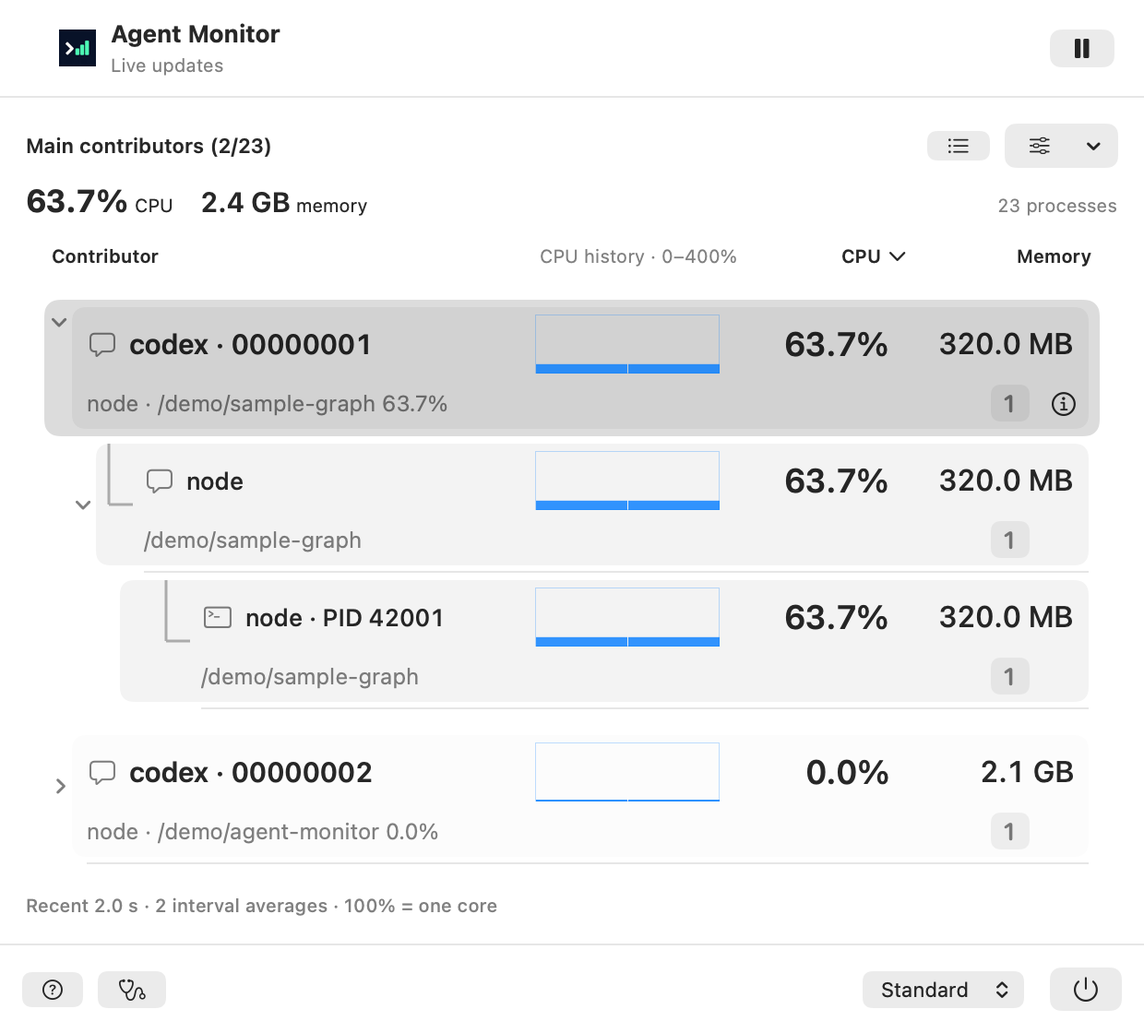
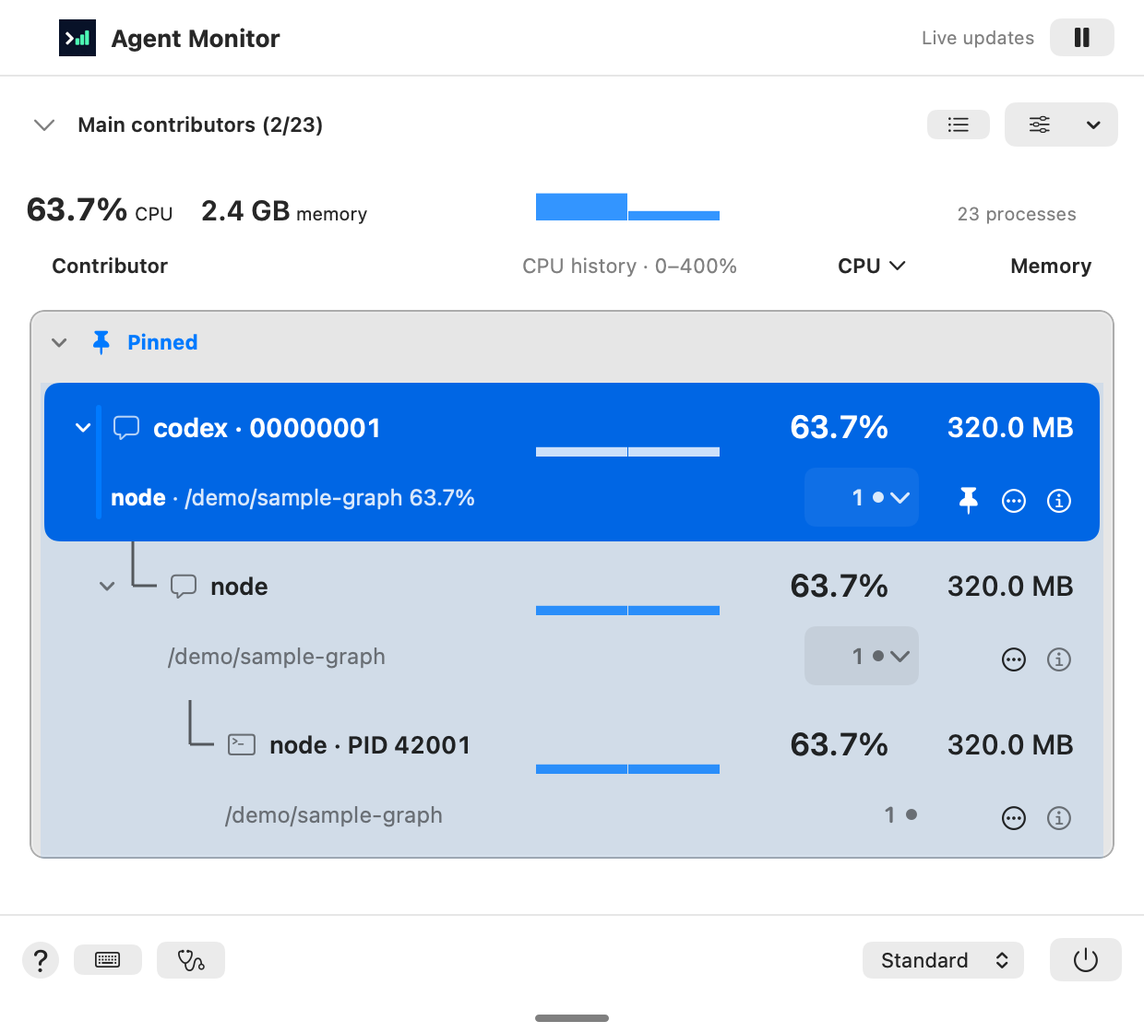
fix(ui): clarify executable headings and terminal help
Keep retained lifetime counts out of executable names while preserving population details and accounting. Size help columns to their content and expose the existing historical-row filter through Shift+H in the TUI.

diff --git a/Sources/AgentMonitorPresentation/ReportReferenceLayout.swift b/Sources/AgentMonitorPresentation/ReportReferenceLayout.swift
@@ -18,7 +18,7 @@ public enum ReportReferenceLayout {
         case .glossary:
             return ReportGlossary.entries.flatMap {
                 [ReportLine($0.title, style: .title), ReportLine($0.definition), ReportLine("")]
-            } + chartHelp(style: state.chartStyle)
+            } + chartHelp(style: state.chartStyle, page: .glossary)
         case .keyboard:
             return keyboardHelp(state: state)
         case .diagnostics:
@@ -136,6 +136,7 @@ public enum ReportReferenceLayout {
             key("1 / 2", "lower/raise CPU filter"), key("3 / 4", "lower/raise memory filter"),
             key("< / >", "slower/faster sampling"),
         ]
+        if state.showsOverview { lines.append(key("H", "hide/show no longer observed")) }
         if state.snapshot != nil { lines.append(key("p", state.frozen ? "resume updates" : "pause updates")) }
         if state.showsOverview {
             if let id = state.overview.selection, state.overview.pinTarget(for: id) != nil {
@@ -167,28 +168,42 @@ public enum ReportReferenceLayout {
             key("q / Ctrl-C", "quit"),
         ]
         if !state.diagnosis.isRunning { lines.append(key("I", "start CPU investigation")) }
-        return lines + chartHelp(style: state.chartStyle, keyStyle: .shortcut)
+        return lines + chartHelp(style: state.chartStyle, page: .keyboard)
     }
 
-    private static func chartHelp(style: ContributorChartStyle, keyStyle: ReportLine.Style = .normal)
+    private static func chartHelp(style: ContributorChartStyle, page: ReportReferencePage)
         -> [ReportLine]
     {
-        [
+        let keyStyle: ReportLine.Style = page == .keyboard ? .shortcut : .normal
+        var lines = [
             ReportLine(""), ReportLine("Contributor CPU charts", style: .title),
-            ReportLine(runs: [
-                .init("█", style: .chartOverflow), .init(" above range; "), .init("·", style: .identity),
-                .init(" no measurement; "), .init("_", style: .identity), .init(" measured zero"),
-            ]),
-            ReportLine("Above-range bars use the warning color; monochrome uses ↑."),
             TerminalChrome.controls([("b", "change chart range")], keyStyle: keyStyle),
-            ReportLine("Oldest left, newest right. Dots are gaps, never zero CPU."),
-            ReportLine("Bars show retained interval averages; equal widths can cover unequal durations."),
+            ReportLine(runs: [
+                .init("█", style: .chartOverflow), .init(" above range (monochrome uses ↑)"),
+            ]),
+            ReportLine(runs: [.init("·", style: .identity), .init(" no measurement")]),
+            ReportLine(runs: [.init("_", style: .identity), .init(" measured zero")]),
+            ReportLine(runs: [.init("~", style: .identity), .init(" incomplete sampling")]),
+            ReportLine("Oldest → newest"),
             ReportLine(
                 style == .compact
-                    ? "Compact charts use 8 steps in one row; all CPU lanes share the same range."
-                    : "Heights use ⅛-cell steps: 24 steps across three rows."),
-            ReportLine("~ spans marks measurements crossing gaps in sampling."),
+                    ? "8 steps in one row"
+                    : "24 steps across three rows"),
         ]
+        if page == .keyboard {
+            lines.append(TerminalChrome.controls([("G", "chart details in glossary")], keyStyle: keyStyle))
+        } else {
+            lines += [
+                ReportLine("All CPU lanes share one fixed range."),
+                ReportLine(
+                    "Bars average measured CPU over retained intervals. Equal widths may cover unequal durations."
+                ),
+                ReportLine(
+                    "Dots mark missing measurements, never zero CPU. ~ marks incomplete sampling, including intervals crossing gaps."
+                ),
+            ]
+        }
+        return lines
     }
 
     private static func wrapped(state: LiveReportState, page: ReportReferencePage, width: Int) -> [ReportLine]
@@ -198,28 +213,33 @@ public enum ReportReferenceLayout {
             return source.flatMap { $0.wrapped(to: max(1, width)) }
         }
         let gap = 4
-        let columnWidth = (width - gap) / 2
-        let sections = source.split(whereSeparator: { $0.text.isEmpty }).map { section in
-            section.flatMap { $0.wrapped(to: columnWidth) }
+        let available = width - gap
+        let sections = source.split(whereSeparator: { $0.text.isEmpty })
+        func column(_ sections: ArraySlice<ArraySlice<ReportLine>>, width: Int) -> [ReportLine] {
+            Array(sections.map { $0.flatMap { $0.wrapped(to: width) } }.joined(separator: [ReportLine("")]))
         }
-        func column(_ sections: ArraySlice<[ReportLine]>) -> [ReportLine] {
-            Array(sections.joined(separator: [ReportLine("")]))
+        let candidates = (1..<sections.count).map { split in
+            let preferred = sections[..<split].flatMap { $0 }.map { TerminalCells.width($0.text) }.max() ?? 0
+            let leftWidth = min(available * 2 / 3, max(available / 3, preferred))
+            return (
+                left: column(sections[..<split], width: leftWidth),
+                right: column(sections[split...], width: available - leftWidth),
+                width: leftWidth
+            )
         }
         guard
-            let split = (1..<sections.count).min(by: { lhs, rhs in
-                max(column(sections[..<lhs]).count, column(sections[lhs...]).count)
-                    < max(column(sections[..<rhs]).count, column(sections[rhs...]).count)
+            let columns = candidates.min(by: {
+                max($0.left.count, $0.right.count) < max($1.left.count, $1.right.count)
             })
         else { return source.flatMap { $0.wrapped(to: width) } }
-        let left = column(sections[..<split])
-        let right = column(sections[split...])
-        return (0..<max(left.count, right.count)).map { row in
-            let first = row < left.count ? left[row] : ReportLine("")
-            guard row < right.count else { return first }
+        return (0..<max(columns.left.count, columns.right.count)).map { row in
+            let first = row < columns.left.count ? columns.left[row] : ReportLine("")
+            guard row < columns.right.count else { return first }
             return ReportLine(
                 runs: first.runs + [
-                    .init(String(repeating: " ", count: columnWidth - TerminalCells.width(first.text) + gap))
-                ] + right[row].runs)
+                    .init(
+                        String(repeating: " ", count: columns.width - TerminalCells.width(first.text) + gap))
+                ] + columns.right[row].runs)
         }
     }
 

diff --git a/Tests/AgentMonitorCLITests/ReportReferenceTests.swift b/Tests/AgentMonitorCLITests/ReportReferenceTests.swift
@@ -3,6 +3,41 @@ import AgentMonitorPresentation
 import Testing
 
 @Suite struct ReportReferenceTests {
+    @Test(arguments: [ContributorChartStyle.compact, .stacked])
+    func keyboardChartLegendFitsTheNarrowestHelpColumn(style: ContributorChartStyle) throws {
+        var state = LiveReportState()
+        state.chartStyle = style
+        let source = ReportReferenceLayout.content(state: state, page: .keyboard)
+        let start = try #require(source.lastIndex { $0.text == "Contributor CPU charts" })
+        let chart = source.suffix(from: start)
+        #expect(chart.allSatisfy { TerminalCells.width($0.text) <= 48 })
+        for symbol in ["█", "·", "_", "~"] {
+            #expect(chart.contains { $0.runs.first?.text == symbol })
+        }
+        #expect(chart.contains { $0.runs.contains { $0.style == .shortcut && $0.text == "G" } })
+    }
+
+    @Test func historicalFilterIsDiscoverableAndReversibleWithoutChangingTotals() throws {
+        var state = LiveReportState()
+        state.receive(try overviewFixture(includeProcesses: true))
+        state.view = .allContributors
+        let rows = state.overview.visibleRows
+        let totals = state.overview.totals
+        let activity = state.overview.activity
+        let help = ReportReferenceLayout.content(state: state, page: .keyboard)
+        #expect(help.contains { $0.text == "H hide/show no longer observed" })
+        state.overview.hideNoLongerObserved.toggle()
+        #expect(state.overview.hideNoLongerObserved)
+        #expect(state.overview.visibleRows.count < rows.count)
+        #expect(state.overview.visibleRows.allSatisfy { !$0.node.stats.isNoLongerObserved })
+        let lines = ContributorLayout.lines(state: state, width: 100, height: 30)
+        #expect(lines.contains { $0.text.contains("H show no longer observed") })
+        #expect(state.overview.totals == totals)
+        #expect(state.overview.activity == activity)
+        state.overview.hideNoLongerObserved.toggle()
+        #expect(state.overview.visibleRows == rows)
+    }
+
     @Test func liveProcessHeaderKeepsInspectionContextAndMovesCollectionDetailsToDiagnostics() throws {
         var state = LiveReportState()
         state.receive(try overviewFixture(includeProcesses: true))
@@ -69,6 +104,11 @@ import Testing
         let lines = ReportReferenceLayout.lines(state: state, width: width, height: 60)
         let first = lines[1]
         #expect(first.runs.filter { $0.style == .title }.count == 2)
+        let secondHeading = try #require(first.runs.last { $0.style == .title })
+        let headingIndex = try #require(first.runs.lastIndex { $0 == secondHeading })
+        let secondColumn = TerminalCells.width(first.runs[..<headingIndex].map(\.text).joined())
+        #expect(secondColumn < width / 2)
+
         let expectedKeys = source.flatMap(\.runs).filter { $0.style == .shortcut }.map(\.text).sorted()
         let renderedKeys = lines.flatMap(\.runs).filter { $0.style == .shortcut }.map(\.text).sorted()
         #expect(renderedKeys == expectedKeys)

diff --git a/Tests/AgentMonitorCLITests/SessionContributorRowsTests.swift b/Tests/AgentMonitorCLITests/SessionContributorRowsTests.swift
@@ -51,21 +51,23 @@ import Testing
         #expect(spread.nodes[session]?.title == "codex · 11111111 · 2 dirs")
     }
 
-    @Test func contributorsAggregateExecutableAndDirectoryWithWorkerCounts() throws {
+    @Test func contributorsKeepCountsSeparateFromExecutableHeadings() throws {
         let value = try overview([
             worker("java", pid: 1, cpu: 0.9), worker("java", pid: 2, cpu: 0.8),
             worker("java", pid: 3, cpu: 0.5, cwd: "/work/web"), worker("rustc", pid: 4, cpu: 0.3),
         ])
         let titles = value.nodes[session]?.children.compactMap { value.nodes[$0]?.title }
-        #expect(titles == ["java ×2 · /work/api", "java · /work/web", "rustc · /work/api"])
+        #expect(titles == ["java · /work/api", "java · /work/web", "rustc · /work/api"])
         let grouped = ContributorID.executable(parent: session, name: "java", cwd: "/work/api")
+        #expect(value.nodes[grouped]?.stats.processes.count == 2)
+        #expect(value.nodes[grouped]?.populationFields.first { $0.label == "Recent workers" }?.value == "2")
         #expect(value.nodes[grouped]?.children.compactMap { value.nodes[$0]?.process?.pid } == [1, 2])
     }
 
     @Test func singleDirectorySessionKeepsTheDirectoryOnTheSessionRowOnly() throws {
         let value = try overview([worker("java", pid: 1, cpu: 0.9), worker("java", pid: 2, cpu: 0.8)])
         let child = try #require(value.nodes[session]?.children.first)
-        #expect(value.nodes[child]?.title == "java ×2")
+        #expect(value.nodes[child]?.title == "java")
     }
 
     @Test func adapterRecognisedRuntimeUsesItsProviderNameAndNoWorkloadDirectory() throws {

diff --git a/Sources/AgentMonitorPresentation/AgentGuide.swift b/Sources/AgentMonitorPresentation/AgentGuide.swift
@@ -105,6 +105,7 @@ public enum AgentGuide {
             ↑/↓ select; ←/→ collapse/expand children; process leaves do not expand.
             Shift+←/→ collapse/expand session groups at the current level; g toggles grouping.
             c/m/o choose CPU/memory/stable order in the current view; r reverses it; n sorts PID only in process views.
+            H (Shift+H) hides/shows no longer observed contributor rows without changing totals or history.
             b cycles the fixed contributor CPU chart range; h cycles process-view history CPU/memory/heavy count; t switches 10 minutes/one hour.
             1/2 lower/raise CPU by 10 percentage points; 3/4 lower/raise footprint by 1 GB.
             </> increase/decrease the period, or adaptive visible maximum: 0.1, 0.25, 0.5, 1, 2, 5, 10, 30 or 60 seconds; invalid steps are skipped.

diff --git a/Sources/AgentMonitorPresentation/ContributorOverview.swift b/Sources/AgentMonitorPresentation/ContributorOverview.swift
@@ -848,11 +848,10 @@ public struct ContributorOverview: Equatable, Sendable {
                 let owner = sequence(first: parent, next: \.parent).first {
                     if case .session = $0 { true } else { false }
                 }
-                let workers = nodes[id]?.stats.processes.count ?? 0
                 // A single directory is already shown on the owning session row.
                 let directoryOnOwner = owner.map { (projects[$0]?.count ?? 0) <= 1 } ?? false
                 nodes[id]?.label = .workload(
-                    name: name + (workers > 1 ? " ×\(workers)" : ""),
+                    name: name,
                     directory: runtimeContributors.contains(id) || directoryOnOwner
                         ? nil
                         : (cwd.map { directoryLabels[$0] ?? WorkloadDirectory.compact($0) }

diff --git a/Sources/AgentMonitorPresentation/ContributorLayout.swift b/Sources/AgentMonitorPresentation/ContributorLayout.swift
@@ -74,6 +74,12 @@ public enum ContributorLayout {
         if !state.thresholds.isUnfiltered {
             header.insert(ReportLine(ThresholdContext.text(state.thresholds), style: .muted), at: 3)
         }
+        if overview.hideNoLongerObserved {
+            header.insert(
+                TerminalChrome.controls([
+                    ("H", "show no longer observed · \(overview.hiddenHistoricalRowCount) rows hidden")
+                ]), at: 3)
+        }
         if let notice = overview.pinNotice { header.insert(ReportLine(notice, style: .warning), at: 3) }
         let rows = overview.visibleRows
         var ancestorLast: [Bool] = []

diff --git a/Tests/AgentMonitorTUITests/TerminalTests.swift b/Tests/AgentMonitorTUITests/TerminalTests.swift
@@ -678,6 +678,12 @@ func terminalActionsRequireConfirmationAndPasteCannotSubmit(quitWhileUndersized:
     ) {
         $0.contains("Main contributors") && $0.contains("overview-project")
     }
+    for hidden in [true, false] {
+        try writeAllBytes(Array("H".utf8), to: terminal.master)
+        _ = try await waitForScreen(
+            on: terminal.master, screen: &screen, deadline: .now() + .seconds(4)
+        ) { $0.contains("H show no longer observed") == hidden }
+    }
     try writeAllBytes(Array("8".utf8), to: terminal.master)
     try writeAllBytes(Array("b".utf8), to: terminal.master)
     _ = try await waitForScreen(

diff --git a/Sources/AgentMonitorTUI/TerminalReport.swift b/Sources/AgentMonitorTUI/TerminalReport.swift
@@ -185,6 +185,11 @@ public enum TerminalReport {
                             state.mutate { $0.apply(shortcut) }
                         }
                         return .handled
+                    case .character("H"):
+                        state.mutate {
+                            if $0.showsOverview { $0.overview.hideNoLongerObserved.toggle() }
+                        }
+                        return .handled
                     case .character("I"):
                         if host.surfaceSize.width >= 40, host.surfaceSize.height >= 8 { diagnosis.start() }
                         return .handled

diff --git a/docs/usage.md b/docs/usage.md
@@ -79,6 +79,7 @@ Adaptive sampling defaults off. With `--adaptive-sampling`, acquisition starts a
 | `r` | Reverse the current view’s sort direction; no effect in Stable order |
 | `P` / `S` / `O` | Fold Pinned / Sessions / Other observed work in the contributor overview |
 | `b` | Cycle the fixed contributor CPU chart range; no effect in process views |
+| `H` (Shift+H) | Hide/show no longer observed rows in the contributor overview; measured totals and history stay unchanged |
 | `h` | Cycle history: CPU (default), memory, heavy-process count |
 | `t` | Switch history between the last 10 minutes (default) and one hour |
 | `1` / `2` | Lower/raise the CPU threshold by 10 percentage points |
@@ -95,7 +96,7 @@ Adaptive sampling defaults off. With `--adaptive-sampling`, acquisition starts a
 
 Pins stay first in pin order, independently of sorting. `★` marks a pinned row and `>` independently marks the selection, including without color. A selected pin shows `>★`; a missing pinned target keeps both indicators. A pinned group's expanded children use arrival order in Stable order and PID order in other sorts. If a target leaves the current heavy results, its placeholder remains with **Not in current results**; this does not prove it exited, and no old measurements or actions are offered. The same process lifetime or session can return automatically; PID reuse cannot replace a pin. `.` removes the selected pin even when its target is absent. `U` clears pins in both the overview and process view; the Mac app also offers **View options → Unpin all**. Each view admits at most 256 pins and 64 KiB of retained identity/label text. Reaching either limit refuses a new pin visibly; existing pins are never evicted, and removal remains available. Pins last until unpinned or the monitor quits, and native pins also survive closing/reopening the panel. A process pinned separately is omitted from its group's child rows; group totals still cover its full heavy membership. Pinned groups retain their identity when switching to flat mode.
 
-The contributor summary uses three lines; section dividers include their P/S/O shortcut and disclosure state, including when folded. Session rows have a leading `▸` when collapsed and `▾` when expanded. Connected `├─`/`└─` branches show ownership and continue through wrapped paths; a dot marks a leaf. Blue names and executables identify contributors; blue bars show CPU history without brackets. CPU and Memory totals in the summary are both bold; the active sort metric is cyan, matching its column and direction-marked heading. Other resource values stay bold; paths and process counts retain normal contrast. The selected headline and its CPU/memory cells use reverse video plus the leading `>` marker; charts stay unhighlighted, and color is not required to navigate. Grouped and flat process tables use the same blue identities and cyan sorted resource values. Keyboard Help uses two balanced columns at 100 columns or wider, keeping sections together and reading down the left column before the right. Narrower terminals use one column; paging follows the rendered rows. Only Keyboard Help emphasizes key names in cyan, bold and underline; view and reference-page footers use subdued neutral shortcut text and at most three lines. Every report and reference footer includes a separator rule and at most two hint lines; narrow widths prioritize view, Help, pause, quit and warning access, with other bindings in Help. Reference section titles remain blue and bold, with normal-contrast explanations. Both Details panes use blue field labels, readable neutral values and targeted resource/uncertainty accents. Supporting status uses secondary emphasis, while uncertainty is marked beside the affected value. Section rules and spacing between contributors separate groups; CPU and memory stay aligned at every depth. At 100 columns or wider, workload context wraps within the contributor column; below 100 it can use the full row width. Compact-height terminals omit extra spacer lines.
+The contributor summary uses three lines; section dividers include their P/S/O shortcut and disclosure state, including when folded. Session rows have a leading `▸` when collapsed and `▾` when expanded. Connected `├─`/`└─` branches show ownership and continue through wrapped paths; a dot marks a leaf. Blue names and executables identify contributors; blue bars show CPU history without brackets. CPU and Memory totals in the summary are both bold; the active sort metric is cyan, matching its column and direction-marked heading. Other resource values stay bold; paths and process counts retain normal contrast. The selected headline and its CPU/memory cells use reverse video plus the leading `>` marker; charts stay unhighlighted, and color is not required to navigate. Grouped and flat process tables use the same blue identities and cyan sorted resource values. Keyboard Help uses two columns at 100 columns or wider, sizing the first to its content and giving the remaining width to the second. Sections stay together and read down the left column before the right. Its chart legend uses one line per symbol; `G` opens the full explanation. Narrower terminals use one column; paging follows the rendered rows. Only Keyboard Help emphasizes key names in cyan, bold and underline; view and reference-page footers use subdued neutral shortcut text and at most three lines. Every report and reference footer includes a separator rule and at most two hint lines; narrow widths prioritize view, Help, pause, quit and warning access, with other bindings in Help. Reference section titles remain blue and bold, with normal-contrast explanations. Both Details panes use blue field labels, readable neutral values and targeted resource/uncertainty accents. Supporting status uses secondary emphasis, while uncertainty is marked beside the affected value. Section rules and spacing between contributors separate groups; CPU and memory stay aligned at every depth. At 100 columns or wider, workload context wraps within the contributor column; below 100 it can use the full row width. Compact-height terminals omit extra spacer lines.
 
 Contributor charts use three text rows beside identity, process count and workload context unless the compact font fallback is active. Filled bars use eighth-cell steps across all three rows (24 height steps). Cells below the top edge use solid backgrounds; the top edge retains its fractional block instead of rounding up to a whole row. When the summary text fits beside it, the overall CPU chart spans all three summary rows, beginning at the top of the screen and aligned with the contributor charts. Narrow layouts omit the overall chart before clipping summary information. Compact mode uses a single glyph row with eight height steps for both the overall and every contributor chart, retaining the same CPU range and numeric values. Its overall chart sits on the last summary row and contributor charts sit beside their headlines; the summary labels the mode `compact`. Exact percentages remain in the numeric column; color and monochrome modes use the same chart heights. Narrow layouts place full-width workload context below the plot. Above-range bars use the terminal’s warning color (typically amber/yellow); monochrome uses **↑** to preserve the distinction from an exactly full bar; **·** means no measurement and **_** means measured zero. **b** changes the range. Oldest is left, latest is right; equal-width bars represent retained interval averages and can cover unequal durations. **~ spans** flags measurements crossing sampling gaps. When contributor charts are visible and every shortcut line leaves enough space, a three-line legend sits at the bottom right without adding footer rows. It is hidden as a unit when space is insufficient. The keyboard guide and glossary explain these symbols too.
 
@@ -108,6 +109,8 @@ agent-monitor --tui --tui-chart-style stacked
 
 
 Overflowing tables, Details and reference pages show the visible range and arrows for more content. Footer controls stay at the terminal bottom even when Details has little content. **D diagnostics !** indicates measurement warnings; the read-failure counts and technical explanation stay inside Diagnostics. Apple Terminal may send Shift-Space identically to Space; use `u` or Ctrl-U for half-page up. Encoded Shift-Space remains supported on terminals that transmit the modifier.
+
+Executable headings show the name without a population multiplier in both TUI and Mac. Current process counts remain below the heading; Details keeps recent worker counts. In the TUI, `H` hides or restores no-longer-observed rows, with an active-filter reminder showing how many rows are hidden. Mac exposes the same filter in **View options → Hide no longer observed**. Neither filter changes measured totals or CPU history.
 
 These are the current source-build keys. An installed release can differ; use its on-screen help and `agent-monitor guide tui`.
 

diff --git a/docs/development.md b/docs/development.md
@@ -315,7 +315,7 @@ The [ledger decision](architecture.md#constrained-overview-presentation) adds ex
 For terminal section folding, verify P/S/O through the owned PTY fixture; 5/6/7/8 must not fold the TUI. Keep native 5/6/7/8 coverage in the shared state and native host checks. Check complete selected rows at 40×8, section controls and aggregate alignment at 90×30 or wider, and reopening after refresh. In Mac, verify native section headers remain nonselectable and the table instance survives whole-table folding. Test attached intrinsic sizing and detached top-edge preservation: collapse at a custom height, change a visible notice, reopen, and verify the original height, selection and child disclosure return. Exercise both 8 and the top disclosure: collapse/expand should animate briefly without bounce, including a quick second toggle, while Reduce Motion and resize-grip dragging remain immediate. Check physical pacing separately from offscreen native-animation requests; NSPopover treats animation as a platform-controlled hint. Confirm the aggregate lane includes filtered/hidden work once and changes neither retention nor measurement totals.
 
 - Follow the [TUI contract](architecture.md#tui-contract) and [no-fork decision](decisions/swifttui-fork.md). Use terminal-native selection, tree markers and keyboard commands; do not copy Mac hover interactions or graphical popovers. Keep the current selection, available detail/Back commands and shortcut meanings discoverable in the supported viewport.
-- Check cell widths, long/Unicode labels, narrow/wide layouts, scrolling and pagination. Moving down must not hide earlier contributors while the whole table fits, with or without Details. Expansion must use remaining rows for the following contributor rather than requiring its whole context block to fit; keep the selected block complete and signal clipped content. Check sibling junctions and final-child elbows, ancestor trunks through nested multiline rows, and termination before the next root. Verify normal-contrast paths/counts, blue identities/history, cyan values that follow the active sort column, direction arrows, borderless plots and reverse-video selected headline/CPU/memory cells with unhighlighted charts; unselected context must remain readable in both terminal themes. Check the monochrome view, single population labels and singular counts too. At 99 columns context can extend below charts; at 100 and above it must stop before them. Check spacer lines between siblings without breaking tree guides, and omit extra spacing in compact-height terminals. Keep hierarchy in the label column and numbers aligned; distinguish selection from expansion and preserve meaningful state without color. Detailed diagnostics belong behind an explicit command without hiding material coverage warnings.
+- Check cell widths, long/Unicode labels, narrow/wide layouts, scrolling and pagination. Moving down must not hide earlier contributors while the whole table fits, with or without Details. Expansion must use remaining rows for the following contributor rather than requiring its whole context block to fit; keep the selected block complete and signal clipped content. Check sibling junctions and final-child elbows, ancestor trunks through nested multiline rows, and termination before the next root. Verify normal-contrast paths/counts, blue identities/history, cyan values that follow the active sort column, direction arrows, borderless plots and reverse-video selected headline/CPU/memory cells with unhighlighted charts; unselected context must remain readable in both terminal themes. Check the monochrome view, single population labels and singular counts too. Executable headings must not append ×N; current counts and historical populations remain separate. Exercise Shift+H twice through the PTY, check its Help entry and active-filter reminder, and verify hiding historical rows preserves totals and history. At 99 columns context can extend below charts; at 100 and above it must stop before them. Check spacer lines between siblings without breaking tree guides, and omit extra spacing in compact-height terminals. Keep hierarchy in the label column and numbers aligned; distinguish selection from expansion and preserve meaningful state without color. Detailed diagnostics belong behind an explicit command without hiding material coverage warnings.
 - Exercise focus routing, disclosure, inspection/return, pause, refresh and row disappearance using the synthetic PTY fixture. In the contributor tree, Return and `i` must inspect in place; repeated Return preserves the open pane, selection and expanded branches. Only the explicit view switch changes tables. Check field colors in overview, grouped/flat process tables and both Details panes through final clipping, wrapping and scroll offsets; previewing the overview alone is insufficient. Ensure navigation keys reach the active pane and editors do not trigger table shortcuts. Source/model checks do not establish terminal key delivery on the user's keyboard; retain the [manual workflow check](#manual-tui-workflow-check).
 
 - Compare headers, sort direction and core shortcut wording across contributors, grouped processes and flat processes. Keep `v`, `g`, Help and quit discoverable. Exercise u/d, Ctrl-U/Ctrl-D, Space and encoded Shift-Space in the PTY for half-page navigation, Page Up/Down for full pages, table selection visibility and Details focus; retain the physical modified-key check for terminals that send identical Space bytes. Verify visible-range indicators and bottom-aligned footer at narrow/wide sizes with both short and overflowing Details. Exercise -/+ and M/= in both contributor and process Details and check the pane geometry changes. Check styled key spans through Keyboard Help wrapping/clipping, including monochrome output; headings alone are insufficient. At 100/120/160 columns, verify balanced two-column Keyboard Help preserves every key and whole sections, with a four-cell gutter; check single-column fallback, paging and offset clamping after resize. Verify actual PTY bytes preserve reverse-video selection, bold and underlined Help keys under both NO_COLOR and --no-color while emitting no foreground/background color attributes. Review monochrome overview/process tables, Details, reference pages, chart glyphs and explicit warning text; use solid cell fills and footer rules so color is never the sole boundary cue. Keep shortcut hints neutral in report, Details, diagnosis and reference-page footers, and in glossary content. Verify the three-line contributor summary and inline section shortcuts, including when every section is folded. Footer hints use at most three rows; report, reference and diagnosis footers separate them with a rule plus at most two hint lines, including narrow and monochrome layouts. Verify the overall CPU chart spans summary rows zero through two without adding header height, shares the contributor chart column and retains the scroll indicator outside its lane. With stacked mode selected, render contributor charts as exactly three text rows, with full-cell fill and no fourth plot row and check missing, zero and above-range glyphs against the Help/glossary legend; verify fractional caps in every row and full-cell backgrounds strictly below them. Check displayed height against known values (150% on a three-row 0–400% chart is 1⅛ rows), not only unchanged CPU values or allowed glyphs. Review color/monochrome output and the accepted Menlo, Source Code Pro, Monaco and Vera Mono font appearances; offscreen font geometry is not a substitute for live terminal rasterization. In compact mode, verify eight proportional glyph steps with no background fill even at the maximum, matching range/sample values in the overall and every contributor chart, a visible compact caption and truthful Help. Exercise compact output in color/NO_COLOR through the PTY; check Apple font resolution with fake permission/query functions, including missing, denied, failed, malformed and multiplexed cases. Automatic lookup must never use the frontmost tab or default profile. User-owned Apple Terminal smoke checks cover actual font lookup, Meslo Powerline at 12 pt, custom spacing and explicit overrides. Check CPU/Memory summary emphasis for both metric sorts and neutral Stable/contributor sorting. Exercise over-range samples in compact/stacked and color/NO_COLOR modes: color uses warning-colored blocks, monochrome retains ↑, and numeric values remain unclamped. A color PTY fixture must remove NO_COLOR, not set it to an empty string: SwiftTUI detects the key’s presence. Verify the bottom-right chart legend appears only with visible contributor charts and room beside every footer line; hide it entirely when constrained, without losing shortcuts or adding footer rows.

diff --git a/docs/research/terminal-ui.md b/docs/research/terminal-ui.md
@@ -189,3 +189,13 @@ The user’s TUI screenshots showed CPU/Memory totals without the active sort ac
 The initial summary/overflow guards failed across all sort/width and compact/stacked cases before the change. Layout tests cover bold neutral totals, cyan active sorts, unchanged values, chart geometry and monochrome markers. Eight synthetic PTY cases cover compact/auto/stacked, low/over-range values, color/NO_COLOR, memory-sort input and terminal restoration. The old “color” fixture incorrectly supplied an empty NO_COLOR value, which SwiftTUI treats as present; the fixture now removes that variable for color cases. Synthetic SVG previews cover both chart modes and appearances; headless browser review checks the generated asset and README layout. Physical terminal font/rasterization acceptance remains in [TUI-CHART-01](../../PLAN.md#existing-validation-follow-ups).
 
 Validation: the affected layout/activity/reference checks passed after updating their marker expectations; all eight PTY scenarios passed in 17.538 seconds. The final seven-test preview suite passed in 0.538 seconds. Compact/stacked, color/monochrome SVGs and the rewritten README were inspected in an isolated headless Chrome profile. The generated README preview matches its renderer, and strict formatting plus documentation checks passed. The optimized CLI/TUI product built successfully in 201.86 seconds; no live workload was sampled. An unrelated stale `--group` help sentence about process disclosure remains tracked as [CLI-HELP-01](../../PLAN.md#existing-validation-follow-ups).
+
+## Executable headings and keyboard help — 2026-11-01
+
+The user rejected executable headings such as `java ×17` beside `1 process`: the multiplier counted distinct retained lifetimes while the secondary count described the current sample. The shared heading now shows only the executable and workload directory, so both Mac and TUI lose the multiplier together. Exact identities, current counts, recent-worker fields and measured contributions remain unchanged. Text and JSON do not use this overview heading; their historical accounting remains covered by the existing output tests.
+
+The keyboard page combined a fixed 50:50 column split with paragraph-length chart explanations. The corrected layout sizes the first column to its content within one-third/two-thirds bounds and gives the remainder to the second, selecting a section boundary that minimizes total height. The chart section has one short line per symbol and a glossary route. Regression cases cover overview/process Help at 100, 120 and 160 columns, narrow single-column order, all shortcut styles and chart modes. The inspected 100-column color/monochrome renders have an approximately 40:60 allocation and an unbroken chart legend.
+
+The no-longer-observed filter existed in the shared state and Mac options but had no TUI key. Shift+H now toggles it only in the contributor overview; Keyboard Help and the source-built guide list it, and the active filter shows the restoration key and hidden-row count. The synthetic PTY regression failed before the key existed and passes with both toggle directions. Model checks retain totals, CPU history and restored rows. The existing Mac menu remains the native entry point.
+
+Validation passed: 48 focused presentation tests, all eight terminal tests, seven preview tests, two native integration/render tests and six text/JSON tests. A final focused run passed 22 help/chrome tests after making keyboard-versus-glossary content selection explicit. Native light/dark images and color/monochrome terminal Help were generated with synthetic data; the color/monochrome Help and light native render were inspected. README TUI preview drift, formatting and documentation checks passed. The stale native README image was refreshed from the current synthetic render; the Debug Mac app was packaged for local review. Physical terminal key delivery and live Mac rendering remain user-owned checks; synthetic PTY/offscreen results do not establish them.

diff --git a/docs/architecture.md b/docs/architecture.md
@@ -456,7 +456,7 @@ The native app and TUI default to **Main contributors**, a shared quantified dis
 
 ### Ownership and executable hierarchy
 
-The hierarchy is corroborated root → exact thread/session → contributor (display name × frozen workload directory) → exact process lifetime. Redundant single-thread levels collapse. Session rows lead with provider and the first eight session-ID characters, followed by a compact directory summary (one path, or a count); the full ID and directories are in details. Compact paths extend matching suffixes among observed non-runtime workload directories until the labels distinguish them; full paths remain available in inspection. Contributor rows carry a worker count and show their directory unless the owning session has only one; an unreadable directory reads “CWD unavailable”. Lists longer than four show the top three and one “+N more” row with the hidden rows' merged statistics, opened automatically when the selection is inside it. [SessionCorroboration](../Sources/AgentMonitorCore/SessionCorroboration.swift) owns the root rule used by both live grouping and acquisition-time history: present-day corroboration cannot regroup past work after a root runtime leaves. Provider/runtime-only, unknown and genuinely conflicting evidence remain distinct from exact session candidates. Project directories provide context, never ownership.
+The hierarchy is corroborated root → exact thread/session → contributor (display name × frozen workload directory) → exact process lifetime. Redundant single-thread levels collapse. Session rows lead with provider and the first eight session-ID characters, followed by a compact directory summary (one path, or a count); the full ID and directories are in details. Compact paths extend matching suffixes among observed non-runtime workload directories until the labels distinguish them; full paths remain available in inspection. Contributor headings show the executable without a lifetime-count multiplier; current process counts remain separate and recent worker populations remain in Details. Rows show their directory unless the owning session has only one; an unreadable directory reads “CWD unavailable”. Lists longer than four show the top three and one “+N more” row with the hidden rows' merged statistics, opened automatically when the selection is inside it. [SessionCorroboration](../Sources/AgentMonitorCore/SessionCorroboration.swift) owns the root rule used by both live grouping and acquisition-time history: present-day corroboration cannot regroup past work after a root runtime leaves. Provider/runtime-only, unknown and genuinely conflicting evidence remain distinct from exact session candidates. Project directories provide context, never ownership.
 
 An adapter may supply an observed embedded-workload invocation label from the already captured `argv[0]`, independently of full command capture. Claude supplies this only for a recognised Claude executable invoked under another basename; other executables keep their native name/basename. Empty, control-containing or over-160-scalar names are rejected. `HeavyProcess.invocationName` supplements the native `name` and `executable`; it is neither executable identity nor ownership evidence. The invocation label is frozen in recent and collapsed categories, so a later invocation observation cannot rename earlier CPU. JSONL schema 1 carries it as an optional field. Native/TUI process labels and contributor groups use the observed label; inspection retains the underlying path.
 
